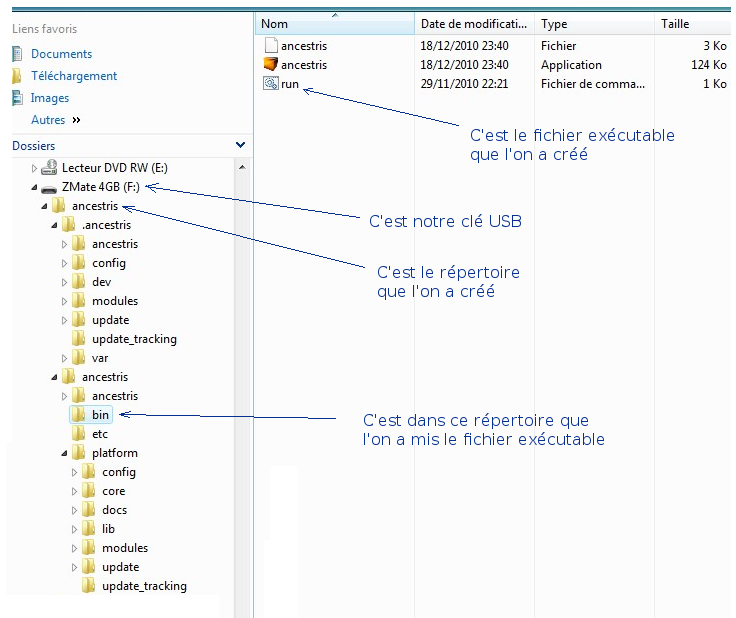
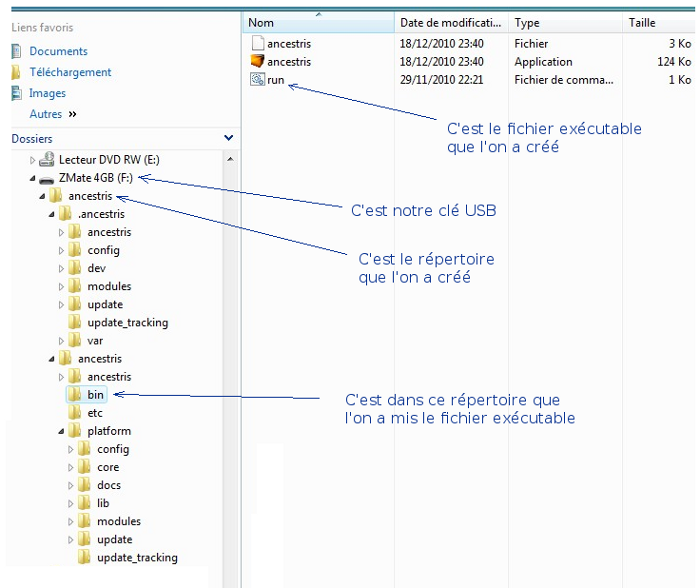
Mise à jour de l'aide sur ancestris nomade. Choix d'une nouvelle taille pour l'image, car elle n'était pas très lisible

Changed region(s): [[0.15, 0.3367, 0.18, 0.3673]]

diff --git a/branches/dan-dev-0.5/GenjFrCore/theApp/javahelp/genjfr/app/docs/advanced/ancestris_nomade.html b/branches/dan-dev-0.5/GenjFrCore/theApp/javahelp/genjfr/app/docs/advanced/ancestris_nomade.html
@@ -61,7 +61,7 @@ and open the template in the editor.
               Voil&agrave; un exemple de ce &agrave; quoi ressemble l'arborescence des fichiers
               de la cl&eacute; USB sous un syst&egrave;me Windows&nbsp;:<br>
               <img src="../images/screenshots/ancestris_nomade.png" alt="Arborescence
-                   de la cle USB sous Windows" border="0" width="600" height="504"><br>
+                   de la cle USB sous Windows" border="0" width="700" height="588"><br>
               </li>
               <li>Je vous conseille de cr&eacute;er un sous-r&eacute;pertoire ancestris\gedcom
               (sous Windows), et dans ce sous-r&eacute;pertoire "gedcom", vous y
